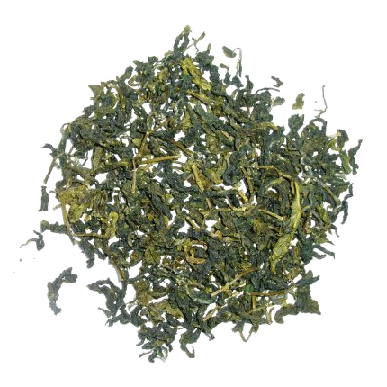
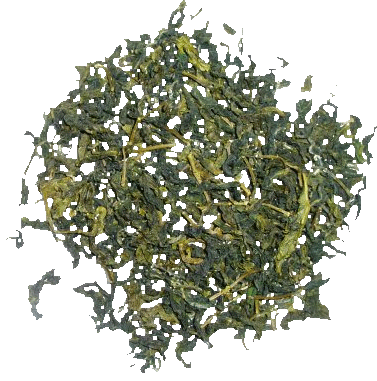
added slighty less crappy image of tea for steeping page

diff --git a/public/stylesheets/app.css b/public/stylesheets/app.css
@@ -200,7 +200,28 @@ input:invalid, textarea:invalid { background-color: #f0dddd; }
 
 table { border-collapse: collapse; border-spacing: 0; }
 td { vertical-align: top; }
-/*
+
+@font-face {
+    font-family: 'WisdomScriptAIRegular';
+    src: url('../fonts/wisdom_script-webfont.eot');
+    src: url('../fonts/wisdom_script-webfont.eot?#iefix') format('embedded-opentype'),
+         url('../fonts/wisdom_script-webfont.woff') format('woff'),
+         url('../fonts/wisdom_script-webfont.ttf') format('truetype'),
+         url('../fonts/wisdom_script-webfont.svg#WisdomScriptAIRegular') format('svg');
+    font-weight: normal;
+    font-style: normal;
+}
+
+@font-face {
+    font-family: 'FranchiseRegular';
+    src: url('../fonts/franchise-bold-webfont.eot');
+    src: url('../fonts/franchise-bold-webfont.eot?#iefix') format('embedded-opentype'),
+         url('../fonts/franchise-bold-webfont.woff') format('woff'),
+         url('../fonts/franchise-bold-webfont.ttf') format('truetype'),
+         url('../fonts/franchise-bold-webfont.svg#FranchiseRegular') format('svg');
+    font-weight: bold;
+    font-style: normal;
+}/*
  * HTML5 ✰ Boilerplate
  *
  * What follows is the result of much research on cross-browser styling.
@@ -2539,28 +2560,7 @@ span.ui-slider-label { position: absolute; text-align: center; width: 100%; over
 span.ui-slider-label-a { z-index: 1; left: 0; text-indent: -1.5em; }
 span.ui-slider-label-b { z-index: 0; right: 0; text-indent: 1.5em;}
 .ui-slider-inline { width: 120px; display: inline-block; }
-
-@font-face {
-    font-family: 'WisdomScriptAIRegular';
-    src: url('../fonts/wisdom_script-webfont.eot');
-    src: url('../fonts/wisdom_script-webfont.eot?#iefix') format('embedded-opentype'),
-         url('../fonts/wisdom_script-webfont.woff') format('woff'),
-         url('../fonts/wisdom_script-webfont.ttf') format('truetype'),
-         url('../fonts/wisdom_script-webfont.svg#WisdomScriptAIRegular') format('svg');
-    font-weight: normal;
-    font-style: normal;
-}
-
-@font-face {
-    font-family: 'FranchiseRegular';
-    src: url('../fonts/franchise-bold-webfont.eot');
-    src: url('../fonts/franchise-bold-webfont.eot?#iefix') format('embedded-opentype'),
-         url('../fonts/franchise-bold-webfont.woff') format('woff'),
-         url('../fonts/franchise-bold-webfont.ttf') format('truetype'),
-         url('../fonts/franchise-bold-webfont.svg#FranchiseRegular') format('svg');
-    font-weight: bold;
-    font-style: normal;
-}@-webkit-keyframes greentea{0%{background:#fff}
+@-webkit-keyframes greentea{0%{background:#fff}
 25%{background:#ff0}
 50%{background:#acd373}
 75%{background:#005e20}
